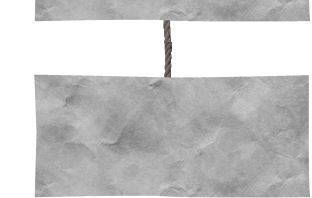
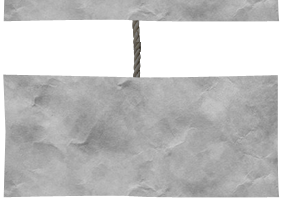
single pages, and share button, and other final fixes

diff --git a/app/assets/stylesheets/custom.css b/app/assets/stylesheets/custom.css
@@ -46,7 +46,6 @@ body{
 	  	font-size:14px;
 	  	font-family:arial;
 	  	min-height:100px;
-		height:180px;
 
 }
 
@@ -59,8 +58,43 @@ h2 {
 
 #logo {
     position:fixed;
-    bottom:400px;
+    bottom:540px;
     /*top:20px;*/
+}
+
+#share { float:right; 
+
+	}
+
+#soc-button-share a{
+	background-color:black;
+	color:white;
+	border-radius:10px;
+	border:2px;
+	padding:5px;
+	text-decoration:none;
+	font-size:12px;
+	-moz-box-shadow: inset 0 0 5px #888;
+	-webkit-box-shadow: inset 0 0 5px#888;
+	box-shadow: inner 0 0 5px #888;
+}
+
+#soc-button-share a:hover{
+	background-color:white;
+	color:black;
+	border-radius:10px;
+	border:2px;
+	padding:5px;
+	-moz-box-shadow: inset 0 0 5px #888;
+	-webkit-box-shadow: inset 0 0 5px#888;
+	box-shadow: inner 0 0 5px #888;
+}
+
+.logo-static {
+	position: relative;
+	float: left;
+	top: 20px;
+
 }
 
 #about-link { 
@@ -130,6 +164,7 @@ bottom: 5px
 	position:fixed;
 	height:400px;
 	width:340px;
+	left:875px;
 }
 
 #main {
@@ -204,11 +239,6 @@ footer{
 
 }
 
-#sglmsg{
-	position:relative;
-	top:30px;
-    left:30px;
-}
 
 #showfoot{
 	position: relative;
@@ -271,7 +301,7 @@ bottom: 30px;
   text-align:left;
   width:320px;
   position:relative;
-  bottom:20px;
+  bottom:110px;
   font-family:bebas;
 }
 
@@ -358,6 +388,8 @@ div.field, div.actions {
   font-size:14px;
   font-family:arial;
   min-height:100px;
+  position:relative;
+  bottom:90px;
 }
 
 .dd {
@@ -378,6 +410,11 @@ div.field, div.actions {
 	position:relative;
 	bottom:20px;
 	font-family:helvetica;
+}
+
+#list-submission2 {
+	top: 90px;
+	position: relative;
 }
 
 br { clear: both; }
@@ -452,8 +489,8 @@ label.error{
 #cny_countdown{
 	height:108px;
 	width:251px;
-    left:900px;
-    bottom:500px;
+    	left:960px;
+    	bottom:600px;
 	position:fixed;
 }
 
@@ -466,9 +503,15 @@ label.error{
 
 #soc-button-share{
     display:block;
+    /*position:relative;
+    top: 20px;*/
+}
+
+#soc-button-single{
+    display:block;
     position:relative;
-top: 23px;
-right: -130px;
+    bottom: 140px;
+    left: 40px;
 }
 
 #submithome{
@@ -496,6 +539,42 @@ color:#1D7EC3;
 .bottom{
    height:650px;
    position:relative;
-   bottom:360px;
 }
 
+#rope_msg{
+	margin:0 auto;
+	position:relative;
+	top:0px;
+	right:280px;
+}
+
+.container2{
+	width:980px;
+	margin:0 auto;
+		height:100%;
+		min-height:100%;
+		margin:0 auto;
+}
+
+
+#sglmsg{
+	width:280px;
+	margin:0 auto;
+	position:relative;
+	bottom:125px;
+	left:-125px;
+	font-size:18px;
+}
+
+.addthis_single{
+	position:relative;
+	right:417px;
+	top:5px;
+}
+
+.bottom2{
+	position:absolute;
+	height:609px;
+	bottom:0;
+	left:200px;
+}
